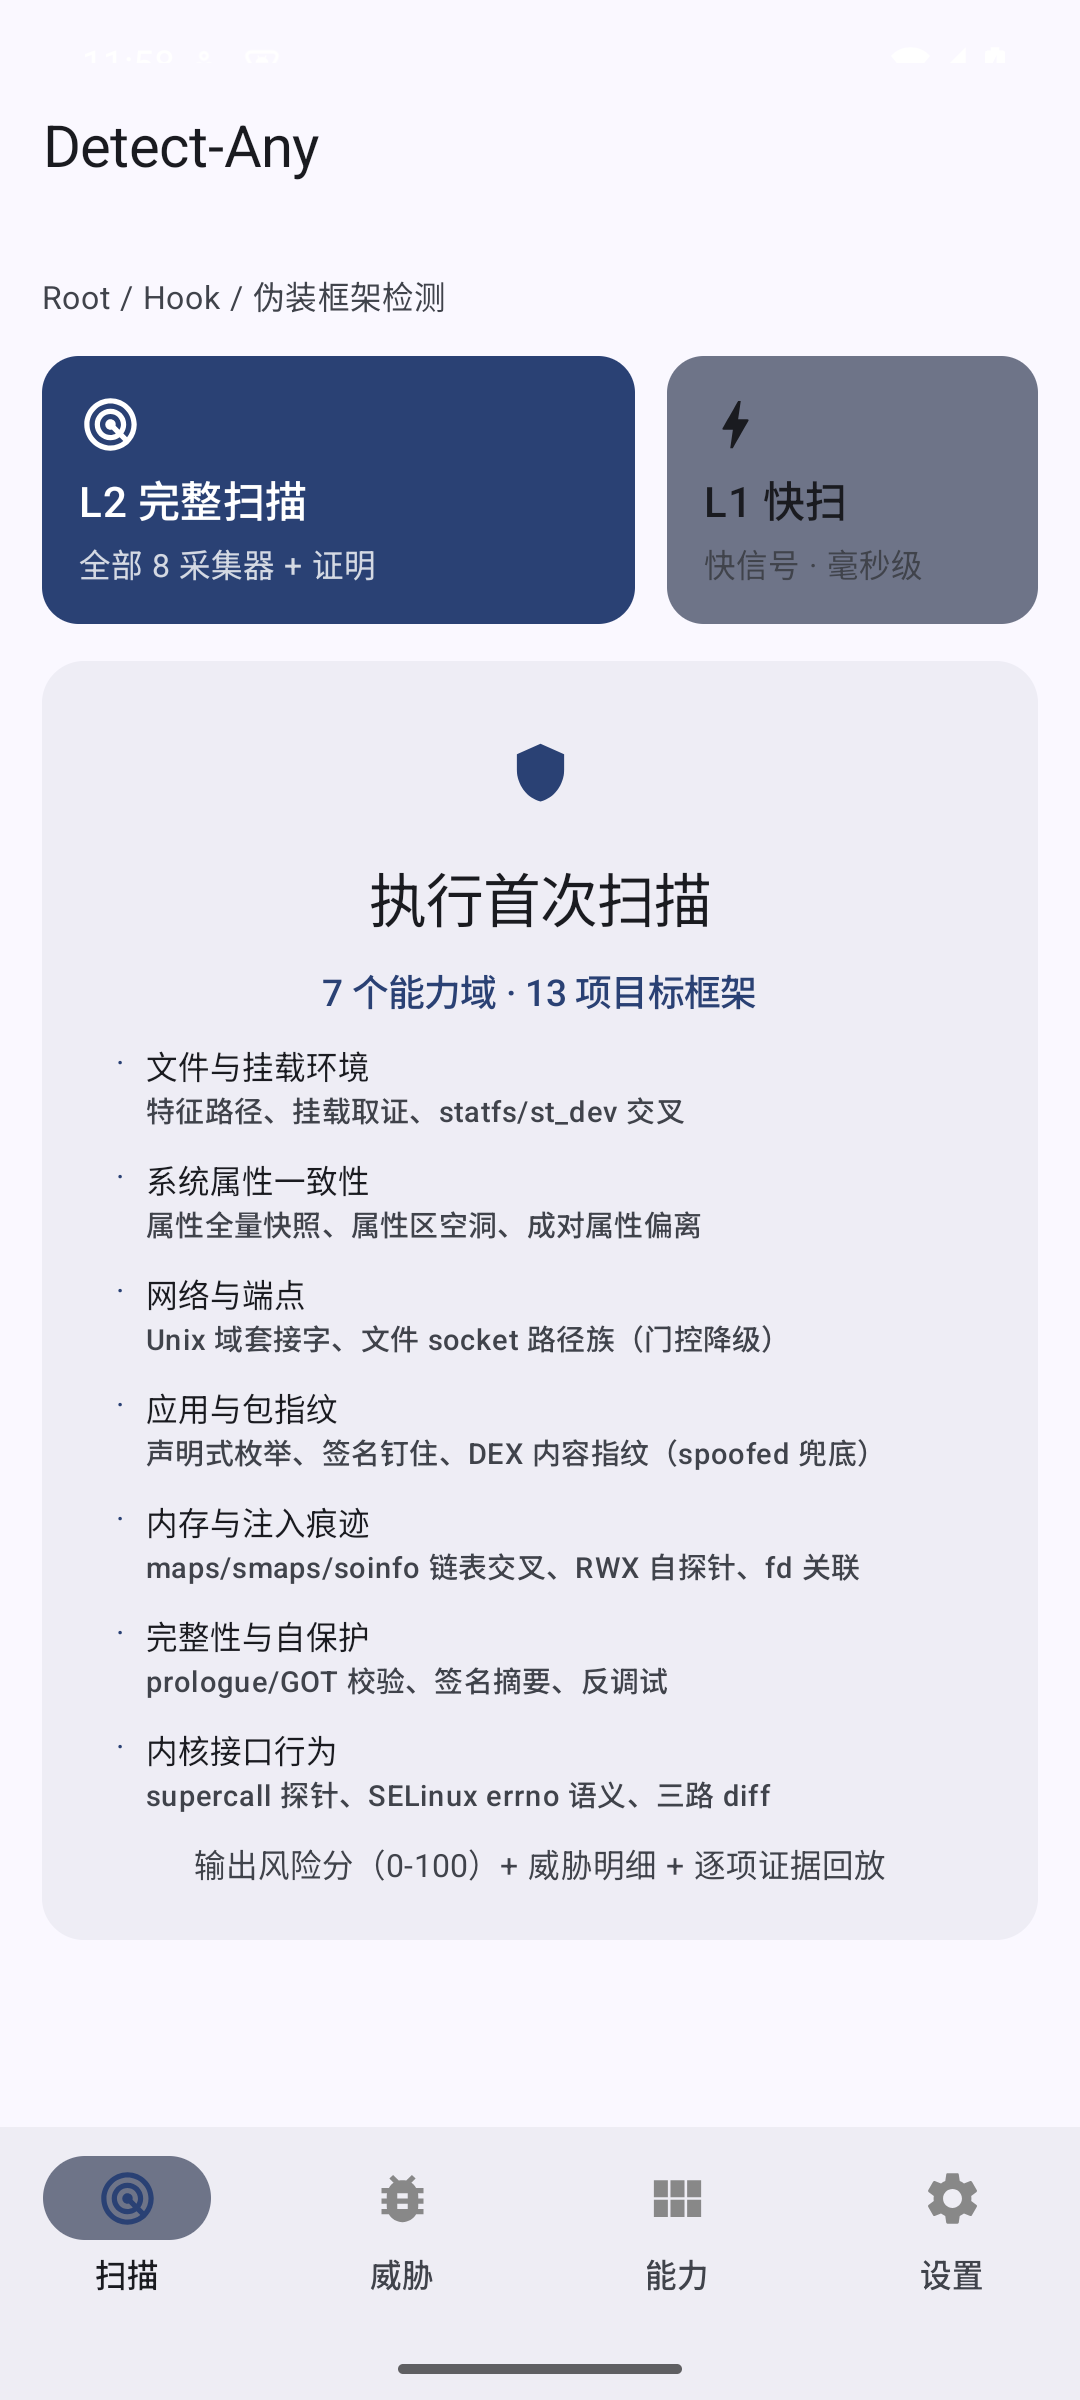
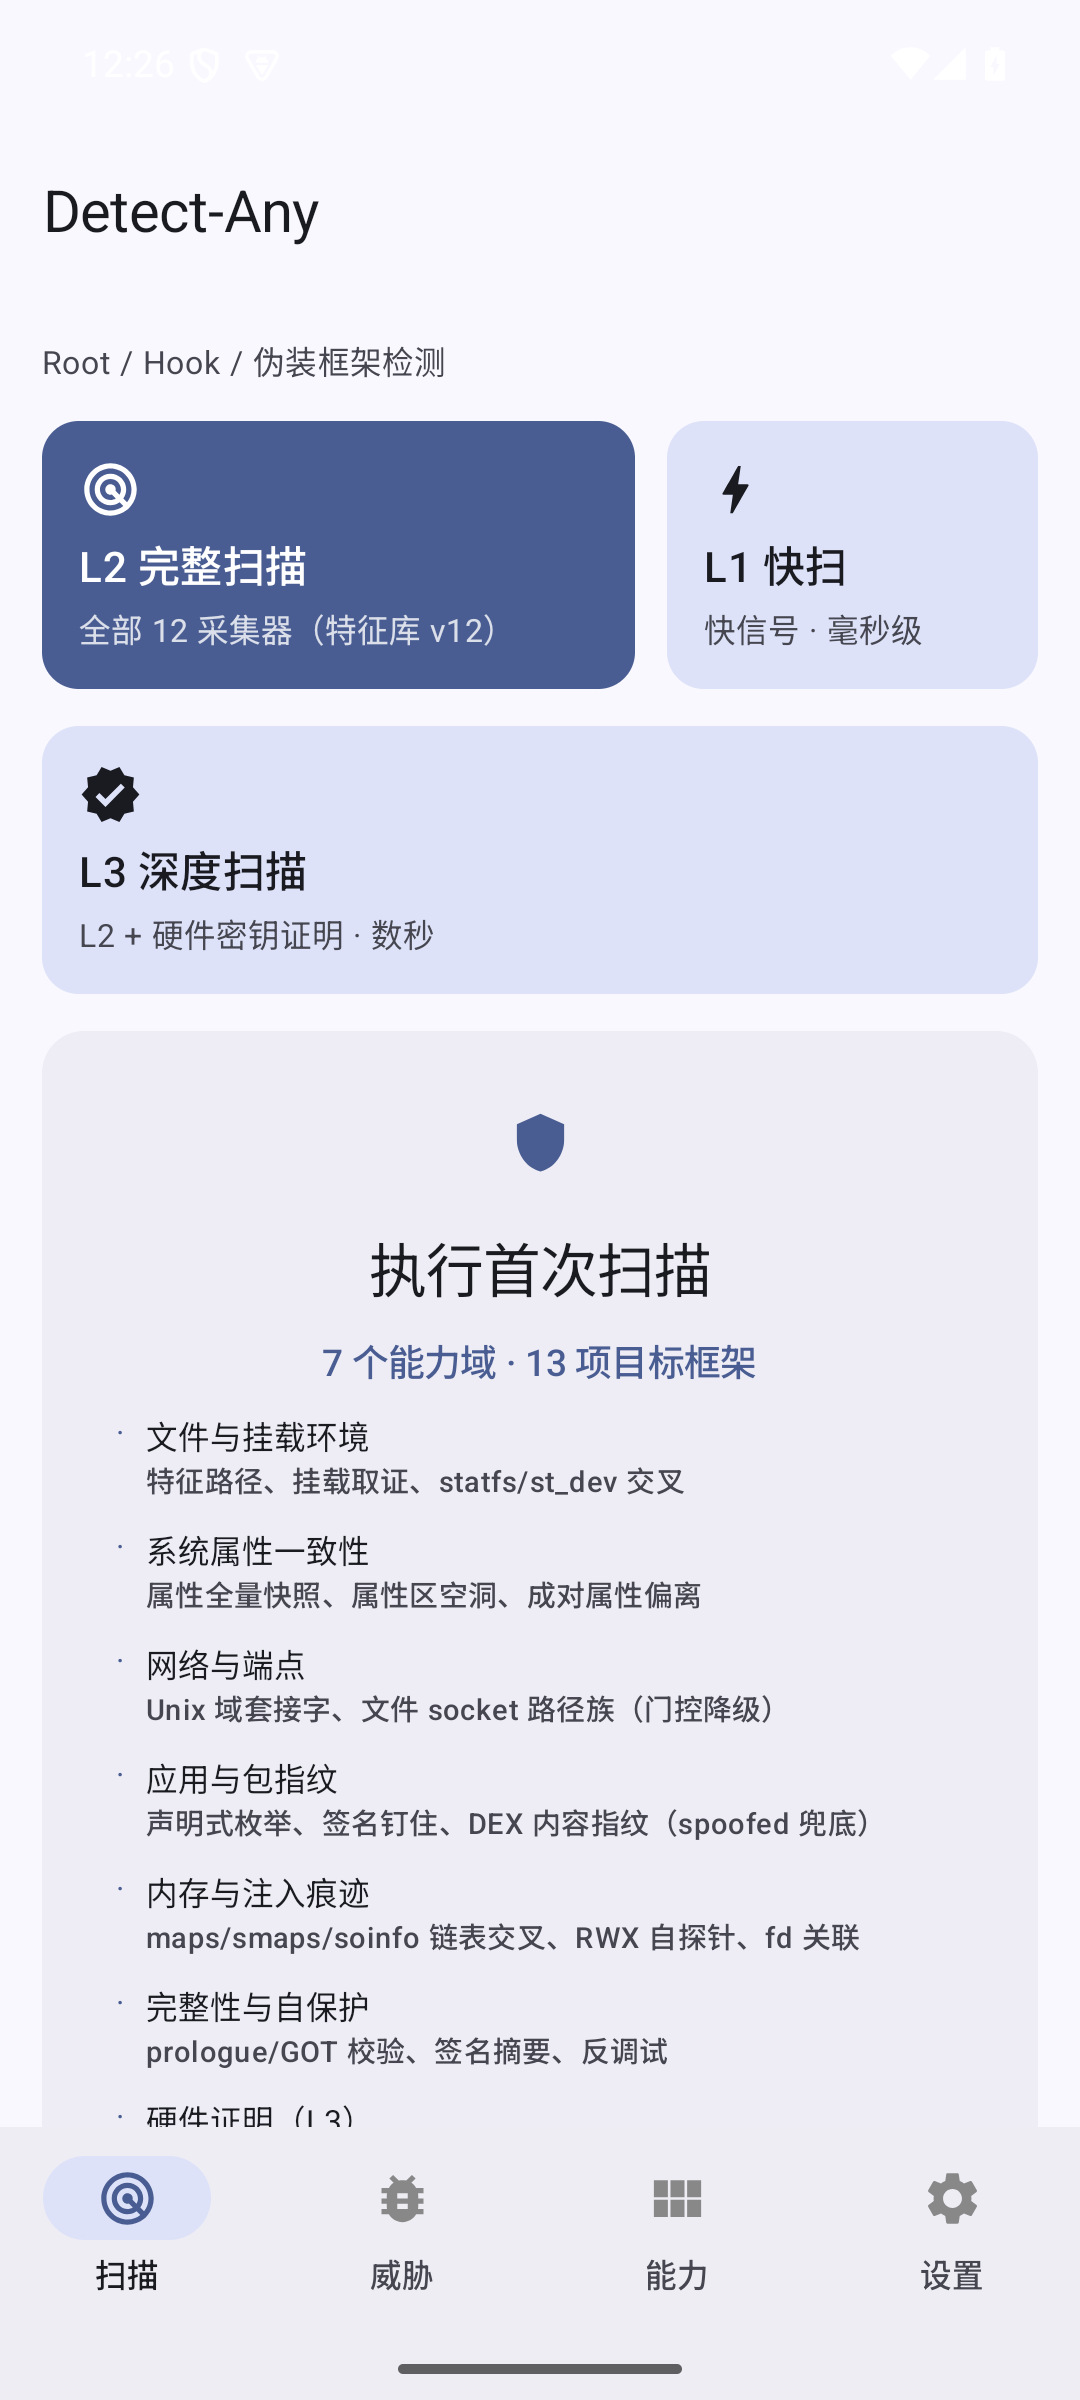
docs: README overhaul - align with v15 state, add threats screenshot
- 25+ targets table (adds Frida/cloud-phone/device-spoofing/risk-posture
  rows over the old 19-framework list)
- Three scan tiers (L1/L2/L3) with per-tier description; L3 attestation
  section with timeout-governance semantics
- 13 collectors / 12 capability domains / signature DB v15 numbers
- Accuracy Discipline section (clean-env protocol, device matrix,
  evidence-graded ledger) - the project's core differentiator
- Perf table: dual-device (flagship + mid-range) with L1/L2/L3 rows
- Known limitations refreshed to current honest boundaries (KPM, cloud
  passthrough, RAT visibility wall, /proc/net gating)
- Screenshots: fresh captures incl. new threats view; badge count fixed
  (195 -> 136 actual host+device)

Changed region(s): [[0.0306, 0.0312, 0.9778, 0.9375], [0.3972, 0.8438, 0.5194, 0.875], [0.55, 0.8438, 0.6111, 0.875]]

diff --git a/README.md b/README.md
@@ -5,81 +5,95 @@
 [![License](https://img.shields.io/badge/License-Apache_2.0-blue.svg)](LICENSE)
 [![minSdk](https://img.shields.io/badge/minSdk-24_(Android_7.0)-orange.svg)](app/build.gradle.kts)
 [![16KB](https://img.shields.io/badge/Page_Size-16KB_Aligned-green.svg)](docs/RUNBOOK.md)
-[![Tests](https://img.shields.io/badge/Tests-195_total-brightgreen.svg)](#testing)
+[![Tests](https://img.shields.io/badge/Tests-136_total-brightgreen.svg)](#testing)
 
 ---
 
 ## Screenshots
 
-| Home | Scan Result | Capabilities | Settings |
-|:---:|:---:|:---:|:---:|
-| ![Home](screenshots/home.png) | ![Result](screenshots/scan_result.png) | ![Capabilities](screenshots/capabilities.png) | ![Settings](screenshots/settings.png) |
+| Home | Scan Result | Threats | Capabilities | Settings |
+|:---:|:---:|:---:|:---:|:---:|
+| ![Home](screenshots/home.png) | ![Result](screenshots/scan_result.png) | ![Threats](screenshots/threats.png) | ![Capabilities](screenshots/capabilities.png) | ![Settings](screenshots/settings.png) |
 
 ---
 
 ## Overview
 
-Detect-Any scans Android devices for 19 root frameworks, injection layers, and attestation spoofing tools. It produces a single weighted risk score (0-100) with per-item evidence replay, organized into four user-facing views:
+Detect-Any scans Android devices for 25+ root frameworks, injection layers, spoofing tools, and risk postures. It produces a single weighted risk score (0-100) with per-item evidence replay, organized into four user-facing views and three scan tiers:
 
-- **Scan** — risk gauge, verdict badge, threat chips, delta vs previous scan
-- **Threats** — findings grouped by detected framework with drill-down evidence
-- **Capabilities** — 7 detection capability domains with per-probe status and timing
-- **Settings** — report export, signature update import, capability boundaries
+- **L1 Quick** — fast signals only, single-digit milliseconds
+- **L2 Full** — all 12 collectors in parallel with evidence vector
+- **L3 Deep** — L2 + hardware key attestation (Keymaster chain, CRL, field cross-checks)
+
+Views: **Scan** (risk gauge, verdict badge, delta vs previous scan) · **Threats** (findings grouped by framework with drill-down evidence) · **Capabilities** (12 detection domains with per-probe status and timing) · **Settings** (report export, signature update import).
 
 ## Covered Targets
 
-| Category | Frameworks |
+| Category | Frameworks / Tools |
 |---|---|
 | Kernel Root | KernelSU, KernelSU-Next, SukiSU-Ultra, APatch |
-| Userspace Root | Magisk |
+| Userspace Root | Magisk (+ Magisk Delta) |
 | Zygisk Injection | ZygiskNext, ReZygisk, NeoZygisk, NyaZygisk |
 | Hook Frameworks | LSPosed, Vector, TrustMeAlready |
 | Repackaging | LSPatch |
-| Attestation Spoofing | TrickyStore, PIF |
-| Hiding Stack | susfs, Shamiko |
-| Detection Tools | ZygiskDetect |
+| Attestation Spoofing | TrickyStore, PIF (+ forks) |
+| Hiding Stack | susfs (incl. verified-boot contradiction), Shamiko |
+| Dynamic Instrumentation | Frida (all variants incl. hluda/Florida, renamed builds) |
+| Emulators / VMs | QEMU family, 4-dimension cross (props/hardware/sensors/GL) |
+| Cloud Phones | cross-subsystem C-signal resonance (sensor rhythm, battery cross-layer, SIM absence) |
+| Device Spoofing | appenv (应用变量), Device ID Changer, VirtualNet, fake GPS/camera tools |
+| Risk Postures | VPN/proxy (3 layers), SIM anomalies, geo inconsistency, speed-hack clock drift, screen sharing/recording, overlay injection, automation services |
 
 ## Architecture
 
 ```
-┌─────────────────────────────────────────────┐
-│              :app  (Compose UI)              │
-├─────────────────────────────────────────────┤
-│           :core:engine (parallel)            │
-│    collectors → rules → weighted score       │
-├────────┬────────────┬──────────────────────┤
-│ :core  │ :collectors│     :feature          │
-│ rules  │ filesystem │  attestation          │
-│ model  │ properties │  report / export      │
-│ native │ endpoints  ├──────────────────────┤
-│ (JNI)  │ fingerprints│    :selfguard        │
-│        │ memory     │  anti-debug           │
-│        │ integrity  │  integrity check      │
-│        │ behavior   │                       │
-├────────┴────────────┴──────────────────────┤
-│ :data:signature  │  :compat:platform        │
-│ (hot-updatable)  │  (API 24-16 gating)      │
-└──────────────────┴─────────────────────────┘
+┌────────────────────────────────────────────────┐
+│              :app  (Compose UI, 4 tabs)         │
+├────────────────────────────────────────────────┤
+│        :core:engine (parallel, L1/L2/L3)        │
+│   13 collectors → rules → weighted score        │
+├────────┬─────────────────┬─────────────────────┤
+│ :core  │   :collectors   │      :feature        │
+│ rules  │ fs / props      │  attestation (C13)   │
+│ model  │ endpoints       │  report / export     │
+│ native │ fingerprints    ├─────────────────────┤
+│  (JNI) │ memory / integ  │     :selfguard       │
+│        │ behavior probes │  anti-debug (async)  │
+│        │ virt-env / a11y │  repackaging check   │
+│        │ screen-share    │                      │
+├────────┴─────────────────┴─────────────────────┤
+│ :data:signature (v15, hot-updatable, ed25519)  │
+│ :compat:platform (API 24-16 capability gating) │
+└────────────────────────────────────────────────┘
 ```
+
+21 Gradle modules. Every detection flow implements the `Collector` SPI — no special paths, the engine runs all collectors in parallel (total scan time = slowest collector, not the sum).
 
 ## Detection Approach
 
-The engine combines multiple independent signal types into a weighted score:
-
 | Signal Class | Grade | Description |
 |---|---|---|
-| Physical invariants | A | Cross-layer consistency checks that are physically impossible to hide from userspace |
-| Behavioral probes | B | Active probes that detect framework-specific responses |
-| Static traces | C | Filesystem paths, socket names, package identifiers |
+| Physical invariants | A | Prologue byte comparison (memory vs disk), triple-path syscall diff, verified-boot contradiction, maps-tamper self-probe — impossible to hide from userspace |
+| Behavioral probes | B | Supercall magic numbers (source-audited per framework), D-Bus protocol handshake, sensor rhythm, mount forensics |
+| Static traces | C | Signature DB artifacts: paths, sockets, packages, properties, kernel fstypes |
 
-**Grade A** signals alone can trigger a conclusive verdict. **Grade B** requires two hits from independent domains. **Grade C** contributes weight but never triggers alone.
+**A** alone triggers a conclusive verdict · **B** requires two hits from independent domains (or cloud-phone C-resonance: ≥3 cross-subsystem signals) · **C** adds weight but never triggers alone.
 
-### Hardware Attestation
+### Hardware Attestation (L3)
 
-- Dual-root chain validation (RSA 2016 + ECDSA P-384 2026)
-- RKP-only enforcement for Android 16 launch devices
-- Google's official certificate revocation list consumption
-- Anti-relay via application ID binding
+- Dual-root chain validation (RSA 2016 + ECDSA P-384 2026), RKP-only for Android 16 launch devices
+- Google's official certificate revocation list consumption (offline snapshot fallback)
+- Per-invocation challenge embedding (chain-freshness proof), 3s timeout governance — a slow Keymaster degrades, never blocks
+- Field cross-checks: RootOfTrust vs system claims, patch level, StrongBox capability
+
+## Accuracy Discipline
+
+Accuracy is the product's prime directive — false positives destroy trust, false negatives are recoverable:
+
+- **Clean-environment protocol**: every probe change must re-verify on a clean emulator (mandatory, in [AGENTS.md](AGENTS.md))
+- **Device matrix**: clean emulator + adversarial Pixel 8 (APatch+susfs deep hiding) + clean mid-range Huawei + cloud-style rooted emulator (TP matrix)
+- **Honest boundary docs**: unreachable/unwired/dormant entries are labeled, never over-promised ([DETECTION_ACCURACY.md](docs/DETECTION_ACCURACY.md) grades all 142 items by evidence chain)
+- Historical FP fixes (OEM prop pairs, emulator artifacts, timing side-channel) are documented as lessons in [AGENTS.md](AGENTS.md)
 
 ## Requirements
 
@@ -87,7 +101,7 @@ The engine combines multiple independent signal types into a weighted score:
 |---|---|
 | minSdk | 24 (Android 7.0) |
 | ABIs | arm64-v8a, armeabi-v7a |
-| Page size | 16KB aligned |
+| Page size | 16KB aligned (build-enforced gate) |
 | Native size | ~613KB stripped |
 
 ## Build
@@ -103,52 +117,61 @@ cd Detect-Any
 ## Testing
 
 ```bash
-# Host unit tests (153)
-./gradlew test
-
-# Device tests (42 per device)
-./gradlew :app:connectedDebugAndroidTest
-
-# 16KB alignment gate
-./gradlew :app:verify16kAlignment
+./gradlew test                              # host unit tests (115)
+./gradlew :app:connectedDebugAndroidTest    # device tests (21 per device)
+./gradlew :app:verify16kAlignment           # 16KB alignment gate
+./gradlew :app:lintDebug                    # NewApi = 0 enforced
 ```
 
 ## Performance
 
-| Metric | Value (Pixel 8) |
-|---|---|
-| Full scan (L2) | 847ms |
-| Quick scan (L1) | ~10ms |
+| Metric | Pixel 8 (flagship) | Huawei mid-range (Kirin 710F) |
+|---|---|---|
+| Quick scan (L1) | 9-13ms | 0-1ms |
+| Full scan (L2) | ~969ms (dual-manager adversarial setup) | 722-887ms |
+| Deep scan (L3) | L2 + ~3.7s attestation | pending device retest |
 
 ## Project Structure
 
 ```
 Detect-Any/
-├── app/                    # Compose UI + navigation
-├── core/                   # Engine, rules, model, JNI bridge
-├── collectors/             # Detection probe implementations
-├── feature/                # Attestation, report/export
-├── data/signature/         # Hot-updatable signature database
-├── compat/platform/        # API level gating
-├── selfguard/              # Self-protection
-├── docs/                   # Documentation
-└── openspec/               # Behavior contracts
+├── app/                     # Compose UI + navigation (4 tabs, L1/L2/L3 tiers)
+├── core/
+│   ├── model/               # Collector SPI, Finding, Confidence grades
+│   ├── engine/              # Parallel orchestration, score model, tiers
+│   ├── rules/               # Rule engine (single-attribution matching)
+│   └── native-platform/     # JNI: raw svc executor, ELF parser, probes
+├── collectors/              # 13 probe modules (one per detection domain)
+├── feature/
+│   ├── attestation/         # Hardware key attestation (C13, L3 tier)
+│   └── report/              # Report presenter, exporter, update import
+├── data/signature/          # Hot-updatable signature DB (v15, ed25519-signed)
+├── compat/platform/         # API 24-16 capability gating
+├── selfguard/               # Self-protection (async anti-debug, integrity)
+├── docs/                    # Engineering documentation
+└── openspec/                # 10 behavior-contract specs (31+ requirements)
 ```
 
 ## Documentation
 
 | Doc | |
 |---|---|
-| [Detection Catalog](docs/DETECTION_CATALOG.md) | All 90+ detection items (signature DB v12 + behavioral probes) |
+| [Detection Catalog](docs/DETECTION_CATALOG.md) | All 90+ detection items (signature DB v15 + behavioral probes) |
+| [Detection Accuracy](docs/DETECTION_ACCURACY.md) | Per-item evidence grading (TP/FP verified, blind spots, boundaries) |
+| [Framework Interfaces](docs/FRAMEWORK_INTERFACES.md) | Source-audited stable interface constants (supercall magics etc.) |
+| [Threat Model](docs/CHEATING_THREAT_MODEL.md) | 80+ tools across 12 domains, incl. BTMOB RAT intel |
+| [Coverage Analysis](docs/COVERAGE_ANALYSIS.md) | 3-layer × 6-dimension coverage matrix |
 | [Capability Boundaries](docs/CAPABILITY_BOUNDARIES.md) | What is explicitly not promised |
-| [Regression Matrix](docs/REGRESSION.md) | Device test data |
-| [Runbook](docs/RUNBOOK.md) | Build, ops, release checklist |
+| [Regression Matrix](docs/REGRESSION.md) | Device test data, timing benchmarks, fix chains |
+| [Runbook](docs/RUNBOOK.md) | Build, ops, hot-update, release checklist |
 
 ## Known Limitations
 
 - Kernel Patch Modules (KPM) are not detectable from userspace
-- Full susfs configuration may partially conceal static traces
-- ptrace residue detection is being neutralized by newer Zygisk implementations
+- Cloud phones passing through real peripherals require server-side correlation (virtual-peripherals form is detectable via C-resonance)
+- RAT families with randomized packages (BTMOB class) hit a package-visibility wall — accessibility/overlay signals only
+- Modern Android (API 28+) restricts `/proc/net` reading: multi-port D-Bus enumeration falls back to the default port, unix-socket probing is gated
+- Deep hiding that wipes all property residue leaves behavioral signals only
 
 ## License
 
